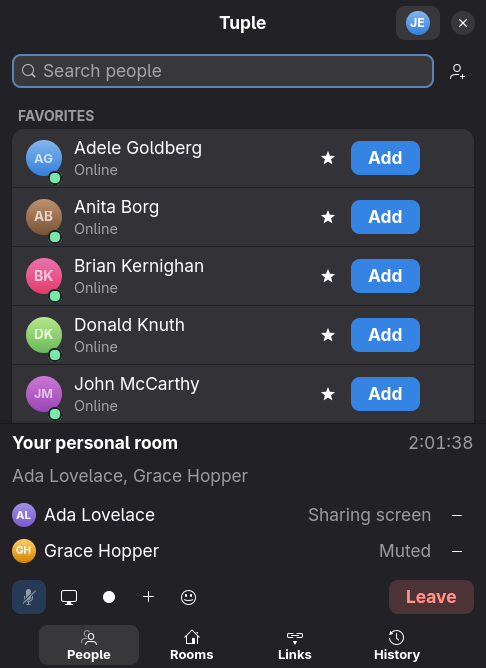
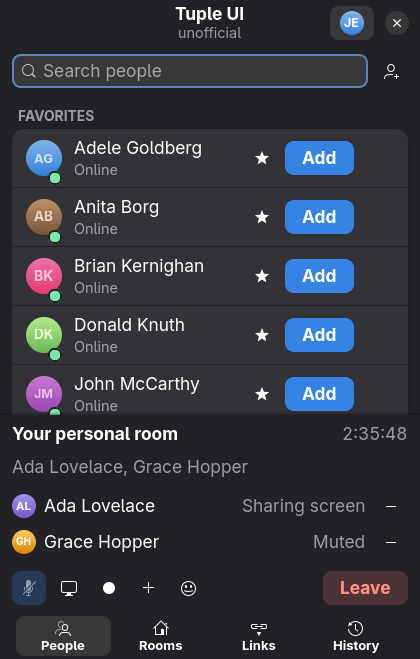
Rename to Tuple UI (unofficial), version 0.1.0, Omarchy notes and refreshed screenshots
- all user-facing names say Tuple UI (unofficial); tray id is "Tuple UI"
- SIGTERM/SIGINT quit cleanly and the follow stream stops when its listener is gone,
  so no orphaned 'tuple state follow' processes are left behind
- README links tuple.app/linux, documents Omarchy tray pinning, floating rule and hotkeys
- dev-screenshot.sh floats the window at a fixed size and can capture the tray

diff --git a/src/main.rs b/src/main.rs
@@ -30,7 +30,7 @@ use crate::ui::window::MainWindow;
 pub const APP_ID: &str = "dev.joakimk.TupleUi";
 
 #[derive(Parser, Debug)]
-#[command(name = "tuple-ui", version, about = "Tuple desktop client for Linux")]
+#[command(name = "tuple-ui", version, about = "Tuple UI (unofficial) — a Linux desktop client for Tuple")]
 struct Args {
     /// Start hidden in the tray
     #[arg(long)]
@@ -96,6 +96,8 @@ fn activate(app: &adw::Application, runtime: tokio::runtime::Handle, start_hidde
     wire_tray(app, &main, &store);
     wire_instance_socket(app, &main, &store);
 
+    wire_posix_signals(app, &main, &store);
+
     store.start();
     let show = !start_hidden && !prefs.borrow().start_in_tray && prefs.borrow().show_window_on_start;
     if show {
@@ -149,7 +151,7 @@ fn wire_results(main: &Rc<MainWindow>, results: async_channel::Receiver<store::A
         while let Ok(result) = results.recv().await {
             main.on_result(&result);
             if !result.result.ok() && !main.window.is_visible() {
-                notify::Notifier::notice(&format!("Tuple: {} failed", result.label.replace('_', " ")), &result.result.error());
+                notify::Notifier::notice(&format!("Tuple UI: {} failed", result.label.replace('_', " ")), &result.result.error());
             }
         }
     });
@@ -225,6 +227,45 @@ fn wire_tray(app: &adw::Application, main: &Rc<MainWindow>, store: &Store) {
                     main.open_settings();
                 }
                 TrayCommand::Quit => app.quit(),
+            }
+        }
+    });
+}
+
+/// SIGTERM/SIGINT quit cleanly (so the `tuple state follow` child is killed too);
+/// SIGUSR1 toggles mute and SIGUSR2 shows the window, like the v1 app. The signals
+/// are turned into the same commands the instance socket accepts.
+fn wire_posix_signals(app: &adw::Application, main: &Rc<MainWindow>, store: &Store) {
+    use tokio::signal::unix::{signal, SignalKind};
+    let (sender, commands) = async_channel::bounded::<&'static str>(8);
+    store.runtime().spawn(async move {
+        let (Ok(mut term), Ok(mut int), Ok(mut usr1), Ok(mut usr2)) = (
+            signal(SignalKind::terminate()),
+            signal(SignalKind::interrupt()),
+            signal(SignalKind::user_defined1()),
+            signal(SignalKind::user_defined2()),
+        ) else {
+            return;
+        };
+        loop {
+            let command = tokio::select! {
+                _ = term.recv() => "quit",
+                _ = int.recv() => "quit",
+                _ = usr1.recv() => "toggle-mute",
+                _ = usr2.recv() => "show",
+            };
+            if sender.send(command).await.is_err() {
+                return;
+            }
+        }
+    });
+    let (app, main, store) = (app.clone(), main.clone(), store.clone());
+    glib::spawn_future_local(async move {
+        while let Ok(command) = commands.recv().await {
+            match command {
+                "quit" => app.quit(),
+                "toggle-mute" => store.toggle_mute(),
+                _ => main.present(),
             }
         }
     });

diff --git a/src/viewmodel.rs b/src/viewmodel.rs
@@ -125,12 +125,12 @@ pub fn tray_state(state: &AppState) -> TrayState {
 
 pub fn tray_tooltip(state: &AppState) -> String {
     match tray_state(state) {
-        TrayState::Unavailable => "Tuple — Unavailable".into(),
-        TrayState::Connecting => "Tuple — Connecting…".into(),
-        TrayState::SignedOut => "Tuple — Signed out".into(),
+        TrayState::Unavailable => "Tuple UI (unofficial) — Unavailable".into(),
+        TrayState::Connecting => "Tuple UI (unofficial) — Connecting…".into(),
+        TrayState::SignedOut => "Tuple UI (unofficial) — Signed out".into(),
         TrayState::Idle => {
             let online = state.contacts.iter().filter(|c| c.favorited && c.status == "online").count();
-            format!("Tuple — Ready · {online} favorites online")
+            format!("Tuple UI (unofficial) — Ready · {online} favorites online")
         }
         TrayState::InCallMuted | TrayState::InCallLive => {
             let call = state.call.as_ref().expect("in call");
@@ -138,7 +138,7 @@ pub fn tray_tooltip(state: &AppState) -> String {
             if call.sharing {
                 bits.push("sharing screen");
             }
-            format!("Tuple — {}", bits.join(" · "))
+            format!("Tuple UI (unofficial) — {}", bits.join(" · "))
         }
     }
 }
@@ -227,12 +227,12 @@ mod tests {
     fn tray_state_and_tooltip_follow_the_call() {
         let idle = AppState::from_raw(&raw_idle());
         assert_eq!(tray_state(&idle), TrayState::Idle);
-        assert_eq!(tray_tooltip(&idle), "Tuple — Ready · 6 favorites online");
+        assert_eq!(tray_tooltip(&idle), "Tuple UI (unofficial) — Ready · 6 favorites online");
         let in_call = in_call_state();
         assert_eq!(tray_state(&in_call), TrayState::InCallMuted);
-        assert_eq!(tray_tooltip(&in_call), "Tuple — In call · muted");
+        assert_eq!(tray_tooltip(&in_call), "Tuple UI (unofficial) — In call · muted");
         assert_eq!(tray_state(&AppState::unavailable("x")), TrayState::Unavailable);
-        assert_eq!(tray_tooltip(&AppState::connecting("")), "Tuple — Connecting…");
+        assert_eq!(tray_tooltip(&AppState::connecting("")), "Tuple UI (unofficial) — Connecting…");
     }
 
     #[test]

diff --git a/src/ui/window.rs b/src/ui/window.rs
@@ -81,7 +81,7 @@ impl MainWindow {
         pages.add_named(&ready, Some("ready"));
 
         let header = adw::HeaderBar::new();
-        header.set_title_widget(Some(&adw::WindowTitle::new("Tuple", "")));
+        header.set_title_widget(Some(&adw::WindowTitle::new("Tuple UI", "unofficial")));
         let account = gtk::MenuButton::new();
         account.set_tooltip_text(Some("Account"));
         account.set_icon_name("avatar-default-symbolic");
@@ -101,7 +101,7 @@ impl MainWindow {
         };
         let window = adw::ApplicationWindow::builder()
             .application(app)
-            .title("Tuple")
+            .title("Tuple UI (unofficial)")
             .default_width(width)
             .default_height(height)
             .width_request(360)
@@ -166,7 +166,7 @@ impl MainWindow {
             self.unavailable.set_error(&state.error);
         }
         self.pages.set_visible_child_name(page);
-        self.window.set_title(Some(if state.in_call() { "Tuple — In call" } else { "Tuple" }));
+        self.window.set_title(Some(if state.in_call() { "Tuple UI (unofficial) — In call" } else { "Tuple UI (unofficial)" }));
         if let Some(user) = &state.user {
             self.account.set_tooltip_text(Some(&user.full_name));
             self.account.set_child(Some(&avatar(user, 24, None, &self.loader)));

diff --git a/src/notify.rs b/src/notify.rs
@@ -86,7 +86,7 @@ impl Notifier {
         let shown = self.shown.clone();
         std::thread::spawn(move || {
             let handle = Notification::new()
-                .appname("Tuple")
+                .appname("Tuple UI (unofficial)")
                 .summary(&format!("{} is calling you", person.full_name))
                 .body("Tuple call")
                 .icon("tuple")
@@ -116,7 +116,7 @@ impl Notifier {
         let actions = self.actions.clone();
         std::thread::spawn(move || {
             let shown = Notification::new()
-                .appname("Tuple")
+                .appname("Tuple UI (unofficial)")
                 .summary(&format!("Missed call from {}", person.full_name))
                 .icon("tuple")
                 .action("callback", "Call back")
@@ -136,7 +136,7 @@ impl Notifier {
         let title = title.to_string();
         let body = body.to_string();
         std::thread::spawn(move || {
-            let _ = Notification::new().appname("Tuple").summary(&title).body(&body).icon("tuple").timeout(Timeout::Milliseconds(6000)).show();
+            let _ = Notification::new().appname("Tuple UI (unofficial)").summary(&title).body(&body).icon("tuple").timeout(Timeout::Milliseconds(6000)).show();
         });
     }
 }

diff --git a/src/tuple.rs b/src/tuple.rs
@@ -177,7 +177,17 @@ impl TupleCli {
         });
         let mut lines = BufReader::new(stdout).lines();
         let mut had_state = false;
-        while let Ok(Some(line)) = lines.next_line().await {
+        loop {
+            // Stop (and kill the daemon follower) as soon as nobody listens any more.
+            let line = tokio::select! {
+                line = lines.next_line() => line,
+                _ = output.closed() => {
+                    let _ = child.kill().await;
+                    stderr_task.abort();
+                    return had_state;
+                }
+            };
+            let Ok(Some(line)) = line else { break };
             let Ok(event) = serde_json::from_str::<Value>(&line) else { continue };
             let Some(kind) = event.get("type").and_then(Value::as_str) else { continue };
             had_state = true;

diff --git a/src/tray.rs b/src/tray.rs
@@ -100,12 +100,14 @@ pub fn render_icon(state: Option<TrayState>, sharing: bool, size: i32) -> Icon {
 }
 
 impl Tray for TupleTray {
+    /// The StatusNotifierItem id. Bars (e.g. the Omarchy shell) key their pin/hide
+    /// lists on it, and "Tuple UI" is what the earlier PyQt app registered as.
     fn id(&self) -> String {
-        "tuple-ui".into()
+        "Tuple UI".into()
     }
 
     fn title(&self) -> String {
-        "Tuple".into()
+        "Tuple UI (unofficial)".into()
     }
 
     fn icon_pixmap(&self) -> Vec<Icon> {

diff --git a/src/autostart.rs b/src/autostart.rs
@@ -6,7 +6,7 @@ use crate::prefs::config_dir;
 
 const ENTRY: &str = "[Desktop Entry]\n\
 Type=Application\n\
-Name=Tuple UI\n\
+Name=Tuple UI (unofficial)\n\
 Comment=Tuple pair programming client\n\
 Exec=tuple-ui --tray\n\
 Icon=tuple\n\

diff --git a/README.md b/README.md
@@ -1,7 +1,10 @@
-# Tuple UI
+# Tuple UI (unofficial)
 
-A native Linux desktop client for [Tuple](https://tuple.app) pair programming,
-built in Rust with GTK 4 and libadwaita on top of the unified `tuple` CLI.
+An unofficial, community-made Linux desktop client for
+[Tuple](https://tuple.app) pair programming, built in Rust with GTK 4 and
+libadwaita on top of Tuple's own `tuple` CLI from
+[Tuple for Linux](https://tuple.app/linux/). It is not made or endorsed by
+Tuple; it only drives the official Linux CLI.
 
 Tuple's own Linux client is command-line only. This app gives it the same
 popover the macOS and Windows apps have, translated to GNOME conventions: see
@@ -14,6 +17,13 @@ popover the macOS and Windows apps have, translated to GNOME conventions: see
 | Links | Settings | Incoming call |
 | --- | --- | --- |
 | ![Links tab](docs/screenshots/links.png) | ![Settings dialog](docs/screenshots/settings.png) | ![Incoming call window](docs/screenshots/incoming-call.png) |
+
+The tray icon (here pinned in the Omarchy bar, the purple dot) turns green in
+a call with the mic live, red when muted, and grey while disconnected; its menu
+offers Show, Mute, Share screen, Leave call, one-click calls to online
+favorites, your rooms, Settings and Quit:
+
+![Tray icon in the bar](docs/screenshots/tray.png)
 
 (Screenshots show the anonymized test data the suite uses, not real contacts.)
 
@@ -86,12 +96,37 @@ make release    # tag, push and publish a GitHub release (maintainers)
 `tuple-ui --tray` starts hidden in the tray; the Settings dialog can add an
 autostart entry that does this at login.
 
-Hyprland example for a global mute key:
+Hyprland (plain `.conf`) example for global keys:
 
 ```
 bind = SUPER SHIFT, M, exec, tuple-ui --toggle-mute
 bind = SUPER, T, exec, tuple-ui --toggle-window
 ```
+
+## Omarchy notes
+
+Tuple UI is developed on [Omarchy](https://omarchy.org) (Hyprland + the
+Omarchy shell bar). Everything works out of the box, with two optional tweaks:
+
+- **Tray icon**: the Omarchy bar keeps unpinned tray icons in a drawer. Pin
+  "Tuple UI" from the drawer's menu, or add `"Tuple UI"` to the `pinned` list of
+  the `omarchy.tray` entry in `~/.config/omarchy/shell.json`.
+- **Floating popover**: Hyprland tiles the window by default. To get the
+  popover feel of the Mac/Windows apps, add to `~/.config/hypr/hyprland.lua`:
+
+  ```lua
+  o.window("dev.joakimk.TupleUi", { float = true })
+  o.window("dev.joakimk.TupleUi", { center = true })
+  o.window("dev.joakimk.TupleUi", { size = { 420, 640 } })
+  ```
+
+- **Hotkeys**: in `~/.config/hypr/bindings.lua`, for example
+  `o.bind("SUPER + SHIFT + M", "Tuple mute", "tuple-ui --toggle-mute")` and
+  `o.bind("SUPER + T", "Tuple", "tuple-ui --toggle-window")`.
+
+Incoming-call and missed-call notifications use the regular desktop
+notification service, so the Omarchy shell shows them with their Accept /
+Decline and Call back buttons.
 
 ## Development
 
